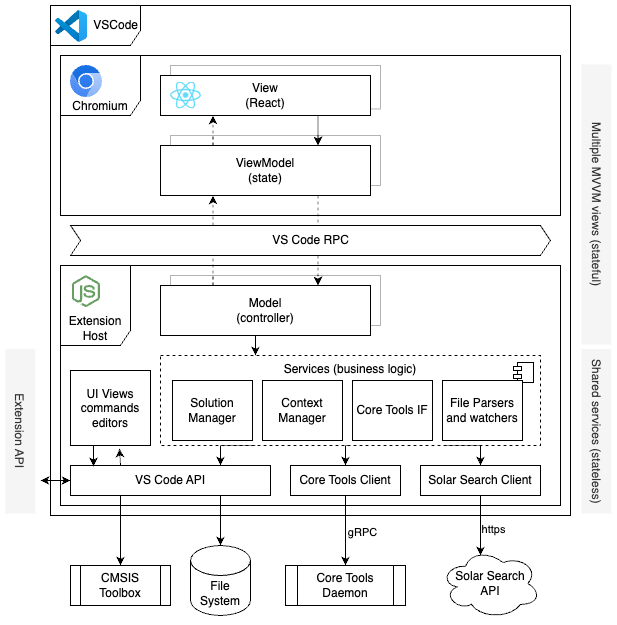
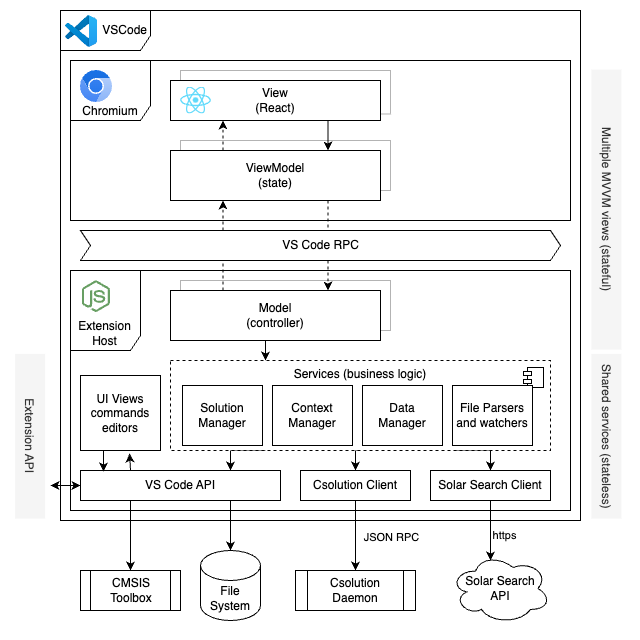
Update architecture diagram to replace dropped CoreTools daemon with Csolution daemon (#10)

Changed region(s): [[0.0, 0.0, 0.9854, 1.0]]

diff --git a/src/ARCHITECTURE.md b/src/ARCHITECTURE.md
@@ -1,6 +1,7 @@
 # CMSIS Solution Extension Architecture Documentation
 
-> **Hint:** This documentation uses [Mermaid](https://mermaid.js.org/intro/syntax-reference.html) diagrams. For Visual Studio code consider installing [Markdown Preview Mermaid Support](https://marketplace.visualstudio.com/items?itemName=bierner.markdown-mermaid).
+> **Hint:** This documentation uses [Mermaid](https://mermaid.js.org/intro/syntax-reference.html) diagrams. For Visual Studio Code consider installing [Markdown Preview Mermaid Support](https://marketplace.visualstudio.com/items?itemName=bierner.markdown-mermaid).
+> Manually crafted diagrams are created with [Draw.io](https://www.drawio.com/). For Visual Studio Code consider installing [Draw.io Integration](https://marketplace.visualstudio.com/items?itemName=hediet.vscode-drawio).
 
 The overall architecture of a Visual Studio Code Extension is given in the following diagram:
 
@@ -55,7 +56,3 @@ The Data Manager abstracts access.
 ### Solar Search Client
 
 [TO BE DOCUMENTED](solar-search)
-
-### Core Tools Service
-
-[TO BE DOCUMENTED](core-tools)
